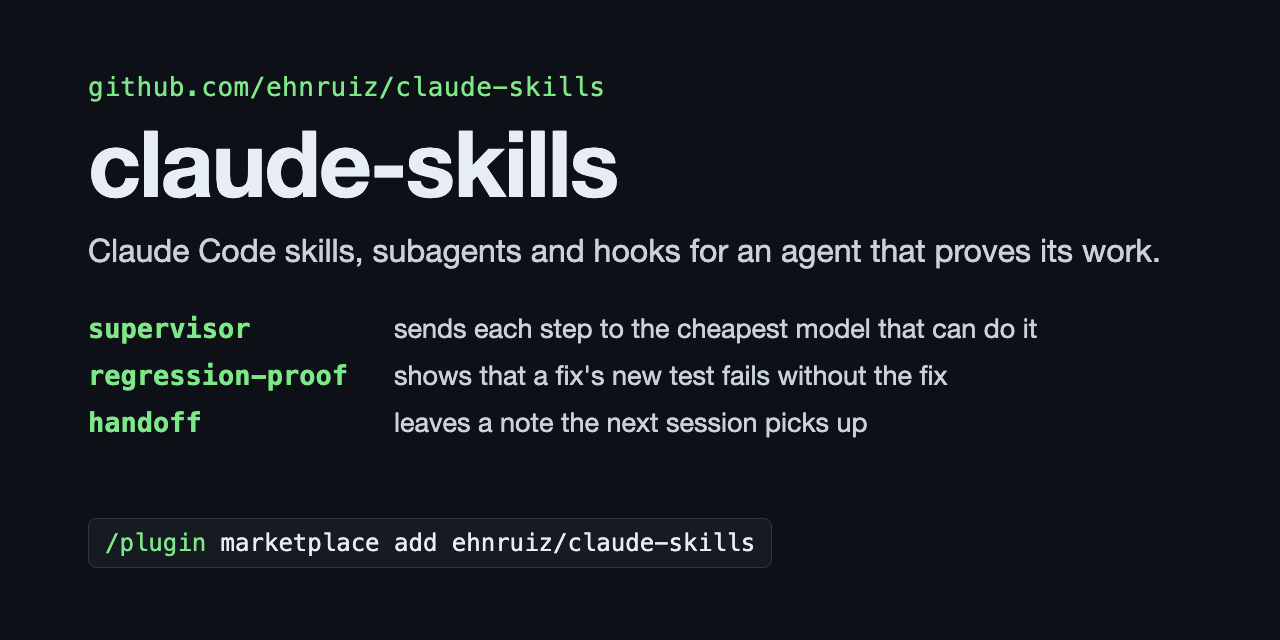
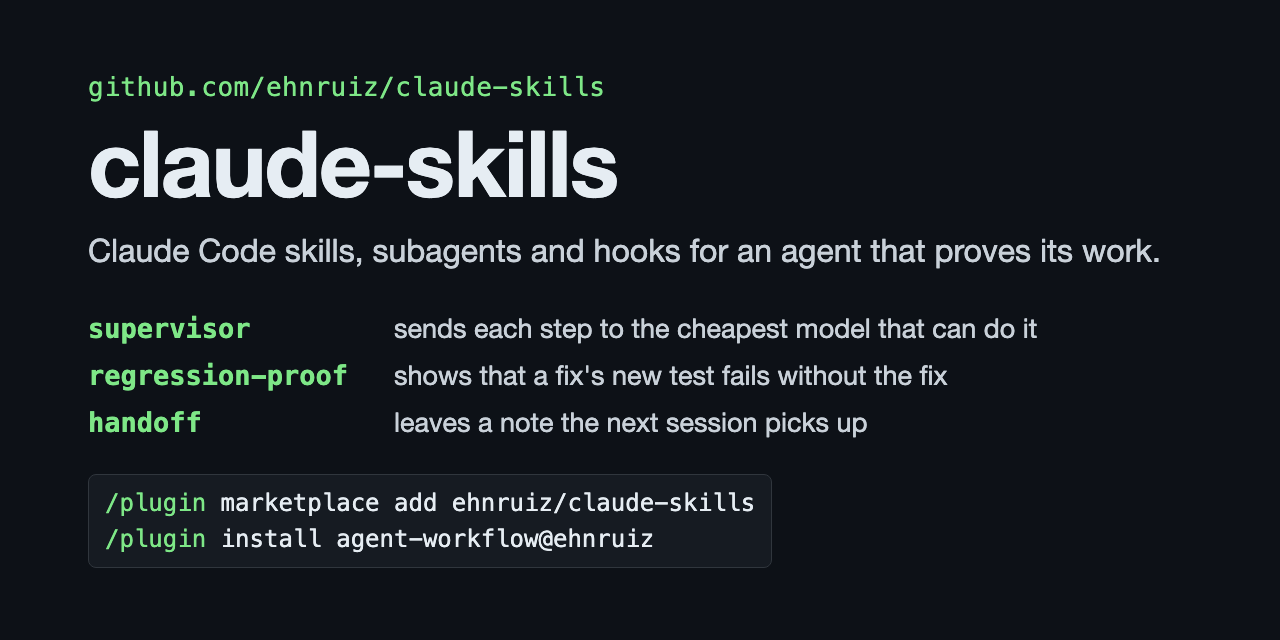
Address review: rebuild in a temp folder, say exactly how the GIF is shortened
- The rebuild steps install Playwright under a temporary prefix. The repository has no package.json, so a plain npm install wrote to a parent folder's project.
- The GIF sets $S, uses 356016b~1 (zsh can read ^ as a glob), says the fix's test file is copied in, and its verdict drops the colon. docs/media/README.md lists the three ways the recording is shortened.
- The preview card shows both install steps.
- The link check reads docs/ recursively, so docs/media/README.md is covered.
- Pillow 9.1+ is stated, the scripts print usage without an argument, and a rebuild matches only on macOS fonts.

Changed region(s): [[0.0625, 0.75, 0.5938, 0.875]]

diff --git a/tests/test_layout.py b/tests/test_layout.py
@@ -7,7 +7,7 @@ import unittest
 ROOT = pathlib.Path(__file__).resolve().parents[1]
 FRONTMATTER = re.compile(r"\A---\n(.*?)\n---\n", re.S)
 LINK = re.compile(r"\]\(([^)\s]+)\)")
-DOCS = [ROOT / "README.md", ROOT / "CHANGELOG.md", ROOT / "hooks/README.md", *sorted((ROOT / "docs").glob("*.md"))]
+DOCS = [ROOT / "README.md", ROOT / "CHANGELOG.md", ROOT / "hooks/README.md", *sorted((ROOT / "docs").rglob("*.md"))]
 
 
 def frontmatter(path):

diff --git a/docs/media/frames_to_gif.py b/docs/media/frames_to_gif.py
@@ -1,6 +1,6 @@
 """Assemble the PNG frames written by render-demo.cjs into one looping GIF.
 
-Usage: python3 frames_to_gif.py <framesDir> <out.gif> (needs Pillow)
+Usage: python3 frames_to_gif.py <framesDir> <out.gif> (needs Pillow 9.1+)
 """
 import json
 import sys

diff --git a/docs/media/README.md b/docs/media/README.md
@@ -5,15 +5,18 @@
 | `regression-proof.gif` | the top of the main README | `render-demo.cjs`, then `frames_to_gif.py` |
 | `social-preview.png` | the repository's social preview (Settings, General, Social preview), shown when a link to the repository is shared | `render-preview.cjs` |
 
-The GIF replays the `regression-proof` recipe from [example 1 in docs/examples.md](../examples.md#1-regression-proof-show-that-a-test-fails-without-its-fix) on commit `356016b`. Its output lines are copied from a real run of that recipe on 2026-10-20 (Python 3.9.6, macOS), trimmed to the result lines: the failing test's name, the test count, the verdict and the exit code. If the recipe or its output changes, update the `steps` list in `render-demo.cjs` from a new run.
+The GIF replays the `regression-proof` recipe from [example 1 in docs/examples.md](../examples.md#1-regression-proof-show-that-a-test-fails-without-its-fix) on commit `356016b`, from a real run on 2026-10-20 (Python 3.9.6, macOS). It is shortened in three ways: it skips the `git diff --name-only` step that lists the test files the fix changed, it shows only the result lines of each test run, and its `FAIL:` line drops the test's class name, `(tests.test_handoff_notice.HandoffNoticeTest)`. The numbers, the verdicts and the exit codes are as printed. If the recipe or its output changes, update the `steps` list in `render-demo.cjs` from a new run.
 
-To rebuild both, with Node 20+, Python 3.9+ and Pillow:
+To rebuild both, with Node 20+, Python 3.9+ and Pillow 9.1+. Playwright goes in a temporary folder, because this repository has no `package.json` and `npm install` here would write to a parent folder's project or to an untracked `node_modules/`:
 
 ```bash
-npm install --no-save playwright && npx playwright install chromium
-node docs/media/render-demo.cjs /tmp/frames
-python3 docs/media/frames_to_gif.py /tmp/frames docs/media/regression-proof.gif
-node docs/media/render-preview.cjs docs/media/social-preview.png
+pw=$(mktemp -d)
+npm install --prefix "$pw" playwright && "$pw/node_modules/.bin/playwright" install chromium
+NODE_PATH="$pw/node_modules" node docs/media/render-demo.cjs "$pw/frames"
+python3 docs/media/frames_to_gif.py "$pw/frames" docs/media/regression-proof.gif
+NODE_PATH="$pw/node_modules" node docs/media/render-preview.cjs docs/media/social-preview.png
 ```
+
+The scripts ask for Menlo and the system font, so a rebuild matches the committed images only on macOS; elsewhere the browser substitutes fonts.
 
 GitHub has no API for the social preview, so a new `social-preview.png` is uploaded by hand in the repository's settings.

diff --git a/README.md b/README.md
@@ -4,7 +4,7 @@ Skills, subagents and hooks for [Claude Code](https://docs.claude.com/en/docs/cl
 
 ![The regression-proof recipe on commit 356016b: the new test fails on the code from before the fix (without_fix=1) and passes on the fix (with_fix=0)](docs/media/regression-proof.gif)
 
-The `regression-proof` skill on a real fix from this repository: the new test fails on the code from before the fix and passes with it, so it proves the fix. The output is trimmed to the result lines; [docs/examples.md](docs/examples.md#1-regression-proof-show-that-a-test-fails-without-its-fix) has the full recipe.
+The `regression-proof` skill on a real fix from this repository: the new test fails on the code from before the fix and passes with it, so it proves the fix. The recording is shortened: it skips the step that lists which test files the fix changed, and shows only the result lines of each run. [docs/examples.md](docs/examples.md#1-regression-proof-show-that-a-test-fails-without-its-fix) has the full recipe.
 
 ## Install
 
